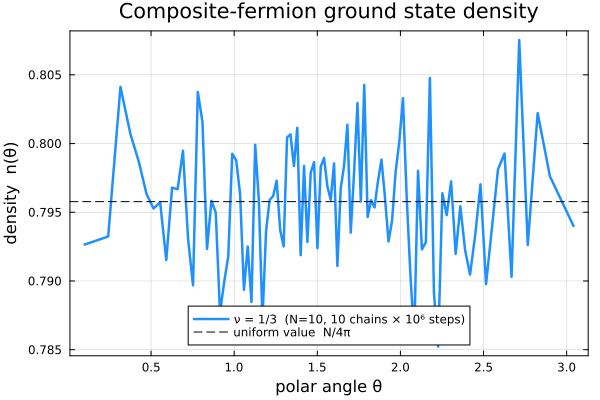
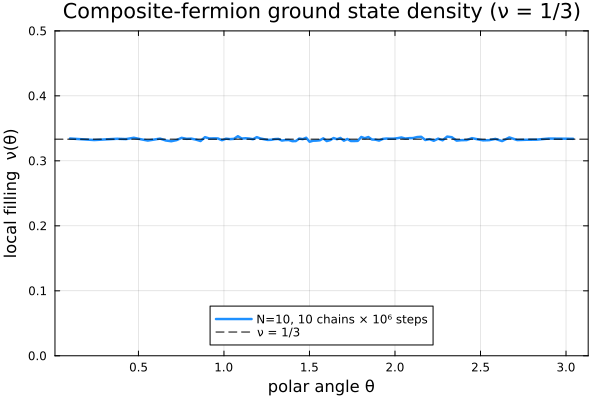
Plot density as local filling ν(θ) with the y=0 baseline
Report the density in magnetic units — the local filling ν(θ) = 2π n(θ)/Qshift
with Qshift = N/(2ν) — so the bulk is a flat plateau at the filling fraction ν,
and show the y=0 baseline instead of zooming into the per-mille fluctuation band.
Applied to the Quickstart figure and the ground-state/excitation/higher-filling/
unprojected density plots in the tutorials.

diff --git a/docs/src/index.md b/docs/src/index.md
@@ -97,25 +97,32 @@ Carlo error; ten chains of a million steps give a smooth estimate.
 results = [run_chain(seed) for seed in 1:10]          # 10 independent chains
 θmesh   = results[1][1]
 θc      = 0.5 .* (θmesh[1:end-1] .+ θmesh[2:end])     # bin centres
-density = mean(last.(results))                        # average over chains
+density = mean(last.(results))                        # number density on the unit sphere
 ```
 
-**5. Plot the density.** On the edgeless sphere the bulk density of an incompressible state is
-flat, sitting at the uniform value ``N/4\pi``.
+**5. Convert to the local filling and plot.** It is natural to report the density in magnetic
+units — the *local filling* ``\nu(\theta)`` — whose bulk value is the filling fraction ``\nu``
+itself. With the monopole strength ``Q_{\text{shift}} = N/2\nu`` for this state,
+``\nu(\theta) = 2\pi\,n(\theta)/Q_{\text{shift}}``. Plotting from ``0`` keeps the flat plateau in
+context (rather than zooming into the per-mille fluctuations).
 
 ```julia
 using Plots
-plot(θc, density; lw = 2, xlabel = "θ", ylabel = "density n(θ)",
-     label = "ν = 1/3  (N=10, 10 chains × 10⁶ steps)")
-hline!([N / (4π)]; ls = :dash, label = "N / 4π")
+ν      = n / (p*n + 1)                 # target filling = 1/3
+Qshift = N / (2ν)                      # monopole strength for this filling
+νθ     = density .* (2π / Qshift)      # local filling ν(θ): flat value = ν
+
+plot(θc, νθ; lw = 2, xlabel = "θ", ylabel = "local filling  ν(θ)", ylims = (0.0, 0.5),
+     label = "N=10, 10 chains × 10⁶ steps")
+hline!([ν]; ls = :dash, label = "ν = 1/3")
 ```
 
 Running the program above produces:
 
-![Density of the ν = 1/3 composite-fermion ground state, flat at N/4π](assets/quickstart_density.png)
+![Local filling ν(θ) of the ν = 1/3 composite-fermion ground state, a flat plateau at 1/3](assets/quickstart_density.png)
 
-The density is flat to ``\sim 1\%`` across the sphere — the hallmark of the incompressible
-``\nu = 1/3`` liquid. From here, [Tutorial 1](tutorials/01_ground_state.md) explains every step in
+The local filling is a flat plateau at ``\nu = 1/3`` across the sphere — the hallmark of the
+incompressible liquid. From here, [Tutorial 1](tutorials/01_ground_state.md) explains every step in
 detail and adds the pair correlation; later tutorials cover excitations, higher fillings, fast
 unprojected sampling, partons, and energies.
 